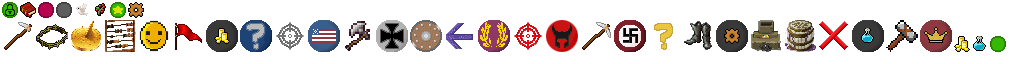
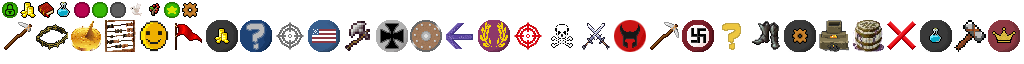
CombatActor: Implement primitive combat animations

Changed region(s): [[0.5312, 0.3125, 1.0, 0.8125], [0.0, 0.0312, 0.2188, 0.2812]]

diff --git a/core/src/main/java/me/rhin/openciv/game/CivGame.java b/core/src/main/java/me/rhin/openciv/game/CivGame.java
@@ -11,11 +11,13 @@ import com.badlogic.gdx.utils.reflect.ClassReflection;
 
 import me.rhin.openciv.Civilization;
 import me.rhin.openciv.asset.SoundEnum;
+import me.rhin.openciv.asset.TextureEnum;
 import me.rhin.openciv.asset.SoundEnum.SoundType;
 import me.rhin.openciv.game.city.City;
 import me.rhin.openciv.game.city.wonders.GameWonders;
 import me.rhin.openciv.game.civilization.CivType;
 import me.rhin.openciv.game.map.GameMap;
+import me.rhin.openciv.game.map.tile.CombatActor;
 import me.rhin.openciv.game.map.tile.Tile;
 import me.rhin.openciv.game.notification.NotificationHandler;
 import me.rhin.openciv.game.notification.type.NotResearchingNotification;
@@ -216,6 +218,7 @@ public class CivGame implements PlayerConnectListener, AddUnitListener, PlayerLi
 	public void onUnitDelete(DeleteUnitPacket packet) {
 		Tile tile = map.getTiles()[packet.getTileGridX()][packet.getTileGridY()];
 		Unit unit = tile.getUnitFromID(packet.getUnitID());
+
 		System.out.println("Deleting unit from: " + unit.getPlayerOwner().getName());
 		unit.kill();
 		tile.removeUnit(unit);
@@ -226,6 +229,9 @@ public class CivGame implements PlayerConnectListener, AddUnitListener, PlayerLi
 			if (actor.equals(unit))
 				actor.addAction(Actions.removeActor());
 		}
+
+		if (packet.isKilled())
+			flashIcon(tile, TextureEnum.ICON_SKULL);
 
 		if (packet.isKilled() && unit.getPlayerOwner().equals(player)) {
 			Civilization.getInstance().getSoundHandler().playEffect(SoundEnum.UNIT_DEATH);
@@ -292,6 +298,10 @@ public class CivGame implements PlayerConnectListener, AddUnitListener, PlayerLi
 		unit.setHealth(unit.getHealth() - packet.getUnitDamage());
 		unit.reduceMovement(2);
 		unit.flashColor(Color.YELLOW);
+
+		flashIcon(unit.getStandingTile(), TextureEnum.ICON_COMBAT);
+		flashIcon(targetEntity.getTile(), TextureEnum.ICON_SHIELD);
+
 		targetEntity.setHealth(targetEntity.getHealth() - packet.getTargetUnitDamage());
 
 		if (unit.getPlayerOwner().equals(player) || targetEntity.getPlayerOwner().equals(player))
@@ -340,6 +350,13 @@ public class CivGame implements PlayerConnectListener, AddUnitListener, PlayerLi
 		Unit unit = map.getTiles()[packet.getTileGridX()][packet.getTileGridY()].getUnitFromID(packet.getUnitID());
 		unit.setHealth(packet.getHealth());
 		unit.flashColor(Color.GREEN);
+	}
+
+	public void flashIcon(Tile standingTile, TextureEnum textureEnum) {
+		CombatActor combatActor = new CombatActor(textureEnum, standingTile.getX() + 6, standingTile.getY() + 8, 16,
+				16);
+		((InGameScreen) Civilization.getInstance().getScreenManager().getCurrentScreen()).getCombatTooltipGroup()
+				.addActor(combatActor);
 	}
 
 	public void endTurn() {

diff --git a/core/src/main/java/me/rhin/openciv/ui/screen/type/InGameScreen.java b/core/src/main/java/me/rhin/openciv/ui/screen/type/InGameScreen.java
@@ -3,17 +3,19 @@ package me.rhin.openciv.ui.screen.type;
 import com.badlogic.gdx.Gdx;
 import com.badlogic.gdx.Input;
 import com.badlogic.gdx.graphics.OrthographicCamera;
+import com.badlogic.gdx.scenes.scene2d.Actor;
 import com.badlogic.gdx.scenes.scene2d.Group;
+import com.badlogic.gdx.scenes.scene2d.actions.Actions;
 import com.badlogic.gdx.utils.TimeUtils;
 
 import me.rhin.openciv.Civilization;
 import me.rhin.openciv.game.CivGame;
+import me.rhin.openciv.game.map.tile.CombatActor;
 import me.rhin.openciv.listener.LeftClickListener.LeftClickEvent;
 import me.rhin.openciv.listener.MouseMoveListener.MouseMoveEvent;
 import me.rhin.openciv.listener.RelativeMouseMoveListener.RelativeMouseMoveEvent;
 import me.rhin.openciv.listener.RightClickListener.RightClickEvent;
 import me.rhin.openciv.shared.listener.EventManager;
-import me.rhin.openciv.ui.button.type.NextTurnButton;
 import me.rhin.openciv.ui.screen.AbstractScreen;
 import me.rhin.openciv.ui.screen.ScreenEnum;
 import me.rhin.openciv.ui.window.type.EscWindow;
@@ -28,6 +30,7 @@ public class InGameScreen extends AbstractScreen {
 	private Group tileGroup;
 	private Group riverGroup;
 	private Group unitGroup;
+	private Group combatTooltipGroup;
 
 	long lastTimeCounted;
 	private float frameRate;
@@ -42,10 +45,12 @@ public class InGameScreen extends AbstractScreen {
 		this.tileGroup = new Group();
 		this.riverGroup = new Group();
 		this.unitGroup = new Group();
+		this.combatTooltipGroup = new Group();
 
 		stage.addActor(tileGroup);
 		stage.addActor(riverGroup);
 		stage.addActor(unitGroup);
+		stage.addActor(combatTooltipGroup);
 	}
 
 	@Override
@@ -68,6 +73,7 @@ public class InGameScreen extends AbstractScreen {
 		camera.update();
 
 		handleInput();
+		handleCombatTooltips();
 
 		Civilization.getInstance().getEventManager().fireEvent(MouseMoveEvent.INSTANCE);
 		Civilization.getInstance().getEventManager().fireEvent(RelativeMouseMoveEvent.INSTANCE);
@@ -76,6 +82,14 @@ public class InGameScreen extends AbstractScreen {
 		if (timeSince >= 500) {
 			frameRate = Gdx.graphics.getFramesPerSecond();
 			gameOverlay.getFPSLabel().setText("FPS: " + frameRate);
+		}
+	}
+
+	private void handleCombatTooltips() {
+		for (Actor actor : combatTooltipGroup.getChildren()) {
+			CombatActor combatActor = (CombatActor) actor;
+			if (combatActor.getSprite().getColor().a <= 0)
+				combatActor.addAction(Actions.removeActor());
 		}
 	}
 
@@ -185,6 +199,10 @@ public class InGameScreen extends AbstractScreen {
 
 	public Group getUnitGroup() {
 		return unitGroup;
+	}
+
+	public Group getCombatTooltipGroup() {
+		return combatTooltipGroup;
 	}
 
 	@Override

diff --git a/core/src/main/java/me/rhin/openciv/game/map/tile/Tile.java b/core/src/main/java/me/rhin/openciv/game/map/tile/Tile.java
@@ -141,8 +141,8 @@ public class Tile extends Actor implements BottomShapeRenderListener {
 
 	@Override
 	public void onBottomShapeRender(ShapeRenderer shapeRenderer) {
-		//if (tileObservers.size() < 1)
-		//	return;
+		// if (tileObservers.size() < 1)
+		// return;
 
 		// Draw the hexagon outline
 
@@ -210,7 +210,7 @@ public class Tile extends Actor implements BottomShapeRenderListener {
 			selectionSprite.draw(batch);
 		}
 
-		if (territory != null /*&& tileObservers.size() > 0*/ && !rangedTarget)
+		if (territory != null /* && tileObservers.size() > 0 */ && !rangedTarget)
 			territorySprite.draw(batch);
 
 		if (rangedTarget) {
@@ -306,7 +306,7 @@ public class Tile extends Actor implements BottomShapeRenderListener {
 			return;
 
 		// FIXME: Check to see if this is still concurrent modification
-		//Happens when there is a ruin tile on a sheep & forest tile.
+		// Happens when there is a ruin tile on a sheep & forest tile.
 		Iterator<TileTypeWrapper> iterator = tileWrappers.iterator();
 		while (iterator.hasNext()) {
 			TileTypeWrapper tileWrapper = iterator.next();

diff --git a/core/src/main/java/me/rhin/openciv/game/map/tile/CombatActor.java b/core/src/main/java/me/rhin/openciv/game/map/tile/CombatActor.java
@@ -1,0 +1,30 @@
+package me.rhin.openciv.game.map.tile;
+
+import com.badlogic.gdx.graphics.g2d.Batch;
+import com.badlogic.gdx.graphics.g2d.Sprite;
+import com.badlogic.gdx.scenes.scene2d.Actor;
+
+import me.rhin.openciv.asset.TextureEnum;
+
+public class CombatActor extends Actor {
+
+	private Sprite sprite;
+	private TextureEnum textureEnum;
+
+	public CombatActor(TextureEnum textureEnum, float x, float y, float width, float height) {
+		this.textureEnum = textureEnum;
+		this.setBounds(x, y, width, height);
+		this.sprite = textureEnum.sprite();
+		sprite.setBounds(x, y, width, height);
+	}
+
+	@Override
+	public void draw(Batch batch, float parentAlpha) {
+		sprite.setAlpha(sprite.getColor().a - 0.01F);
+		sprite.draw(batch);
+	}
+
+	public Sprite getSprite() {
+		return sprite;
+	}
+}

diff --git a/core/src/main/java/me/rhin/openciv/game/map/GameMap.java b/core/src/main/java/me/rhin/openciv/game/map/GameMap.java
@@ -1,10 +1,14 @@
 
 package me.rhin.openciv.game.map;
 
+import java.util.ArrayList;
+
 import com.badlogic.gdx.Gdx;
 import com.badlogic.gdx.math.Vector2;
 
 import me.rhin.openciv.Civilization;
+import me.rhin.openciv.asset.TextureEnum;
+import me.rhin.openciv.game.map.tile.CombatActor;
 import me.rhin.openciv.game.map.tile.Tile;
 import me.rhin.openciv.game.map.tile.TileType;
 import me.rhin.openciv.listener.ReceiveMapChunkListener;
@@ -98,7 +102,7 @@ public class GameMap implements ReceiveMapChunkListener, SetTileTypeListener, Re
 
 		if (tile.isVisible())
 			tileType.playRemoveSound();
-		
+
 		tile.removeTileType(tileType);
 	}
 

diff --git a/core/src/main/java/me/rhin/openciv/game/unit/Unit.java b/core/src/main/java/me/rhin/openciv/game/unit/Unit.java
@@ -418,6 +418,7 @@ public abstract class Unit extends Actor
 		sprite.setPosition(x, y);
 		selectionSprite.setPosition(x, y);
 		civIconSprite.setPosition(x + 10, y + 20);
+
 		super.setPosition(x, y);
 	}
 
@@ -561,6 +562,7 @@ public abstract class Unit extends Actor
 		Civilization.getInstance().getEventManager().clearListenersFromObject(this);
 	}
 
-	public void setPlayerOwner(AbstractPlayer abstractPlayer) {
+	public void setPlayerOwner(AbstractPlayer playerOwner) {
+		this.playerOwner = playerOwner;
 	}
 }

diff --git a/server/src/main/java/me/rhin/openciv/server/game/ai/type/CityStatePlayer.java b/server/src/main/java/me/rhin/openciv/server/game/ai/type/CityStatePlayer.java
@@ -83,10 +83,15 @@ public class CityStatePlayer extends AIPlayer implements NextTurnListener {
 					borderTiles.add(adjTile);
 
 		int enemyUnitAmount = 0;
-		for (Tile tile : borderTiles)
+		for (Tile tile : borderTiles) {
+
+			if (tile == null)
+				continue;
+
 			for (Unit unit : tile.getUnits())
 				if (!unit.getPlayerOwner().equals(this))
 					enemyUnitAmount++;
+		}
 
 		int combatUnitAmount = 0;
 		for (Unit unit : ownedUnits)

diff --git a/server/src/main/java/me/rhin/openciv/server/game/unit/Unit.java b/server/src/main/java/me/rhin/openciv/server/game/unit/Unit.java
@@ -544,6 +544,7 @@ public abstract class Unit implements AttackableEntity, NextTurnListener {
 			DeleteUnitPacket removeUnitPacket = new DeleteUnitPacket();
 			removeUnitPacket.setUnit(this.getID(), this.getStandingTile().getGridX(),
 					this.getStandingTile().getGridY());
+			removeUnitPacket.setKilled(true);
 
 			for (Player player : players) {
 				player.sendPacket(json.toJson(removeUnitPacket));

diff --git a/core/src/main/java/me/rhin/openciv/game/city/City.java b/core/src/main/java/me/rhin/openciv/game/city/City.java
@@ -17,6 +17,7 @@ import com.badlogic.gdx.utils.reflect.ClassReflection;
 
 import me.rhin.openciv.Civilization;
 import me.rhin.openciv.asset.SoundEnum;
+import me.rhin.openciv.asset.TextureEnum;
 import me.rhin.openciv.game.city.building.Building;
 import me.rhin.openciv.game.city.specialist.SpecialistContainer;
 import me.rhin.openciv.game.map.tile.Tile;

diff --git a/core/src/main/java/me/rhin/openciv/game/unit/AttackableEntity.java b/core/src/main/java/me/rhin/openciv/game/unit/AttackableEntity.java
@@ -2,6 +2,7 @@ package me.rhin.openciv.game.unit;
 
 import com.badlogic.gdx.graphics.Color;
 
+import me.rhin.openciv.asset.TextureEnum;
 import me.rhin.openciv.game.map.tile.Tile;
 import me.rhin.openciv.game.player.AbstractPlayer;
 

diff --git a/core/src/main/java/me/rhin/openciv/asset/TextureEnum.java b/core/src/main/java/me/rhin/openciv/asset/TextureEnum.java
@@ -117,6 +117,8 @@ public enum TextureEnum {
 	ICON_MORALE,
 	ICON_HAMMER,
 	ICON_BARBARIAN,
+	ICON_SKULL,
+	ICON_COMBAT,
 	ICON_CITYSTATE_GOLD,
 	ICON_CITYSTATE_PRODUCTION,
 	ICON_CITYSTATE_SCIENCE,
